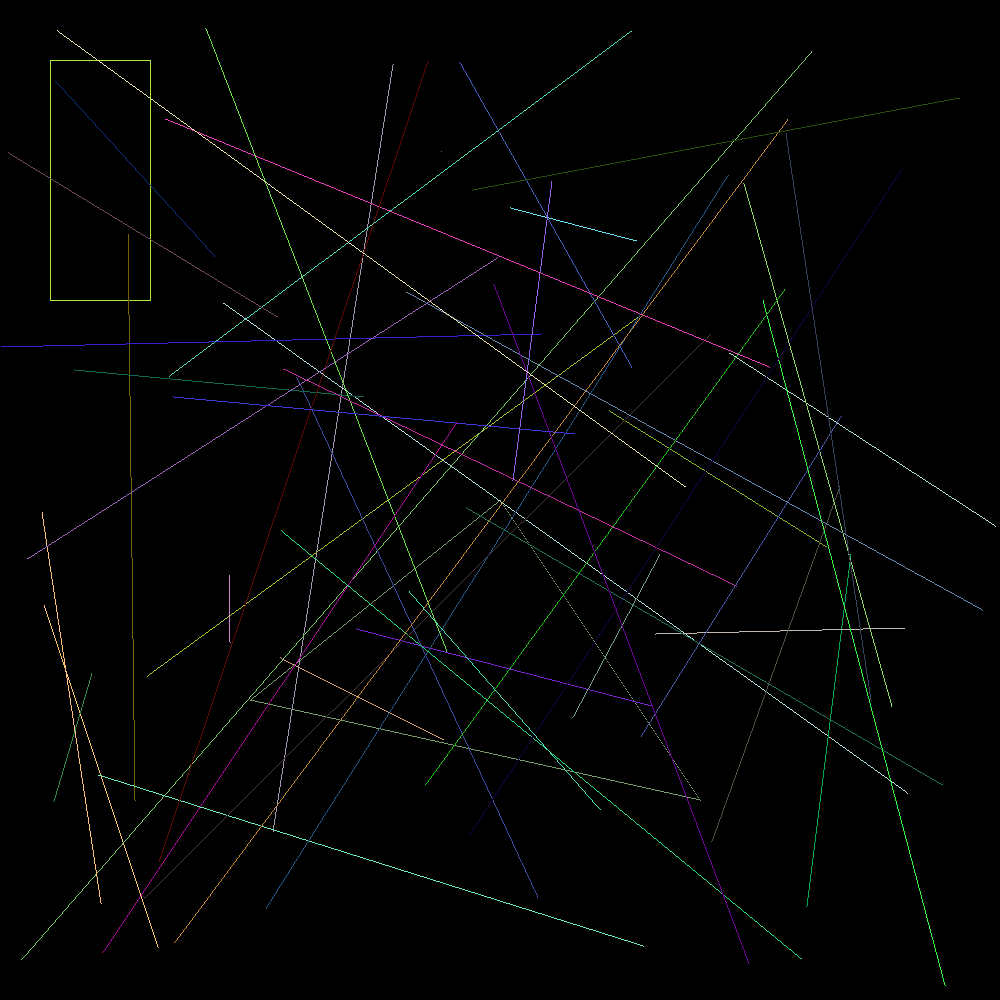
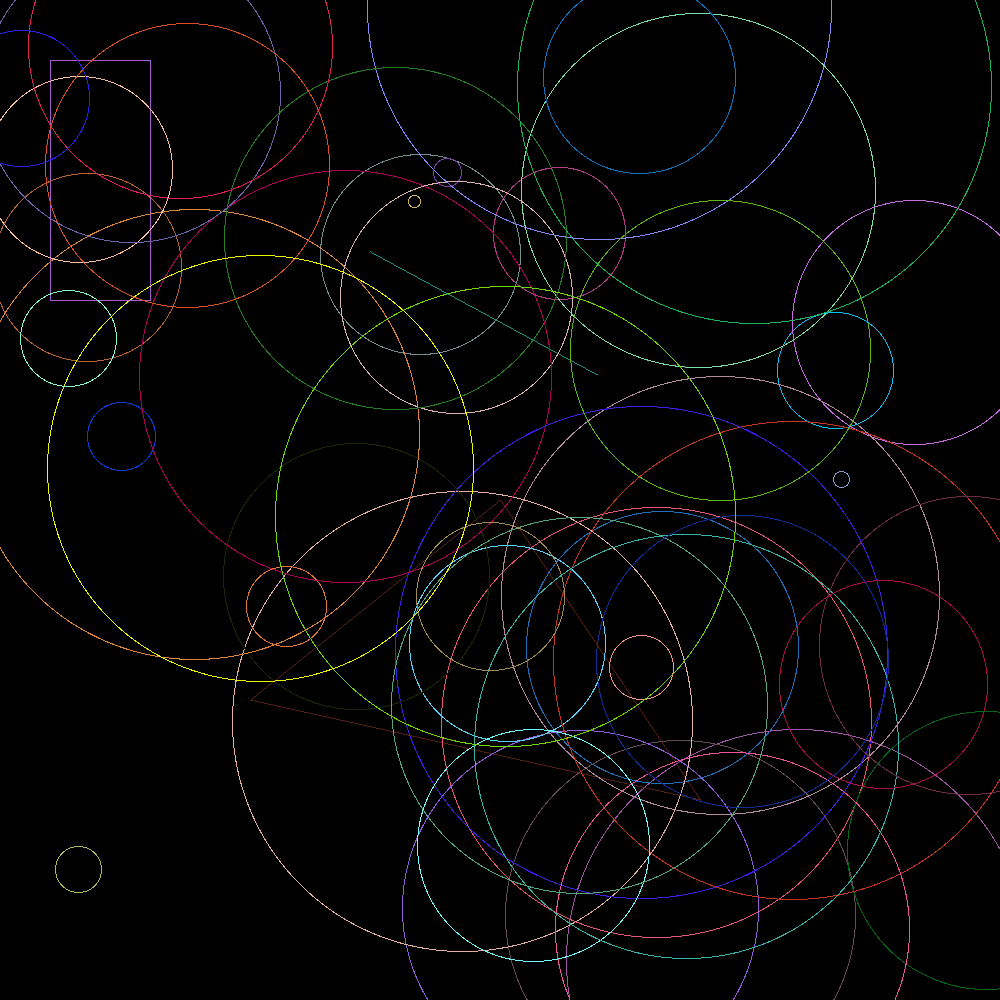
donnnnne

diff --git a/src/geometrical_shapes/rectangle.rs b/src/geometrical_shapes/rectangle.rs
@@ -15,6 +15,8 @@ impl Rectangle {
         }
     }
 }
+
+//Draw Rectangle
 impl Drawable for Rectangle {
     fn draw(&self, image: &mut Image) {
         let min_x = self.point1.x.min(self.point2.x);
@@ -28,33 +30,22 @@ impl Drawable for Rectangle {
         let p3 = Point::new(max_x, max_y);
         let p4 = Point::new(min_x, max_y);
 
-        let edges = [
-            (&p1, &p2),
-            (&p2, &p3),
-            (&p3, &p4),
-            (&p4, &p1),
-        ];
+        let mut line1 = Line::new(&p1, &p2);
+        let mut line2 = Line::new(&p2, &p3);
+        let mut line3 = Line::new(&p3, &p4);
+        let mut line4 = Line::new(&p4, &p1);
 
-        for (a, b) in edges {
-            let x1 = a.x;
-            let x2 = b.x;
-            let y1 = a.y;
-            let y2 = b.y;
+        line1.color = self.color;
+        line2.color = self.color;
+        line3.color = self.color;
+        line4.color = self.color;
 
-            if x1 == x2 {
-                for y in y1.min(y2)..=y1.max(y2) {
-                    image.display(x1, y, self.color());
-                }
-            } else {
-                for x in x1.min(x2)..=x1.max(x2) {
-                    let y = y1 + ((y2 - y1) * (x - x1)) / (x2 - x1);
-                    image.display(x, y, self.color());
-                }
-            }
-        }
+        line1.draw(image);
+        line2.draw(image);
+        line3.draw(image);
+        line4.draw(image);
     }
-
-    fn color(&self) -> Color {
+     fn color(&self) -> Color {
         Color::rgb(self.color.0, self.color.1, self.color.2)
     }
 }

diff --git a/src/geometrical_shapes/triangle.rs b/src/geometrical_shapes/triangle.rs
@@ -1,5 +1,4 @@
-
-// Triangle 
+// Triangle
 use super::*;
 
 pub struct Triangle {
@@ -8,6 +7,7 @@ pub struct Triangle {
     pub point3: Point,
     color: (u8, u8, u8),
 }
+
 impl Triangle {
     pub fn new(p1: &Point, p2: &Point, p3: &Point) -> Triangle {
         Triangle {
@@ -18,31 +18,20 @@ impl Triangle {
         }
     }
 }
+
 impl Drawable for Triangle {
     fn draw(&self, image: &mut Image) {
-        let points = [
-            (&self.point1, &self.point2),
-            (&self.point2, &self.point3),
-            (&self.point3, &self.point1),
-        ];
+        let mut line1 = Line::new(&self.point1, &self.point2);
+        let mut line2 = Line::new(&self.point2, &self.point3);
+        let mut line3 = Line::new(&self.point3, &self.point1);
 
-        for (p1, p2) in points {
-            let x1 = p1.x;
-            let x2 = p2.x;
-            let y1 = p1.y;
-            let y2 = p2.y;
+        line1.color = self.color;
+        line2.color = self.color;
+        line3.color = self.color;
 
-            if x1 == x2 {
-                for y in y1.min(y2)..=y1.max(y2) {
-                    image.display(x1, y, self.color());
-                }
-            } else {
-                for x in x1.min(x2)..=x1.max(x2) {
-                    let y = y1 + ((y2 - y1) * (x - x1)) / (x2 - x1);
-                    image.display(x, y, self.color());
-                }
-            }
-        }
+        line1.draw(image);
+        line2.draw(image);
+        line3.draw(image);
     }
 
     fn color(&self) -> Color {

diff --git a/src/geometrical_shapes/line.rs b/src/geometrical_shapes/line.rs
@@ -4,7 +4,7 @@ use super::*;
 pub struct Line {
     pub point1: Point,
     pub point2: Point,
-    color: (u8, u8, u8),
+    pub color: (u8, u8, u8),
 }
 impl Line {
     #[allow(dead_code)]
@@ -60,8 +60,8 @@ impl Drawable for Line {
                     let x = x1 + ((x2 - x1) * (y - y1)) / (y2 - y1);
                     image.display(x, y, self.color());
                 }
-    }
-}
+            }
+        }
     }
 
     fn color(&self) -> Color {

diff --git a/src/main.rs b/src/main.rs
@@ -22,7 +22,7 @@ fn main() {
     triangle.draw(&mut image);
 
     for _ in 1..50 {
-        gs::Line::random(image.width, image.height).draw(&mut image);
+        gs::Circle::random(image.width, image.height).draw(&mut image);
     }
 
     raster::save(&image, "image.png").unwrap();
